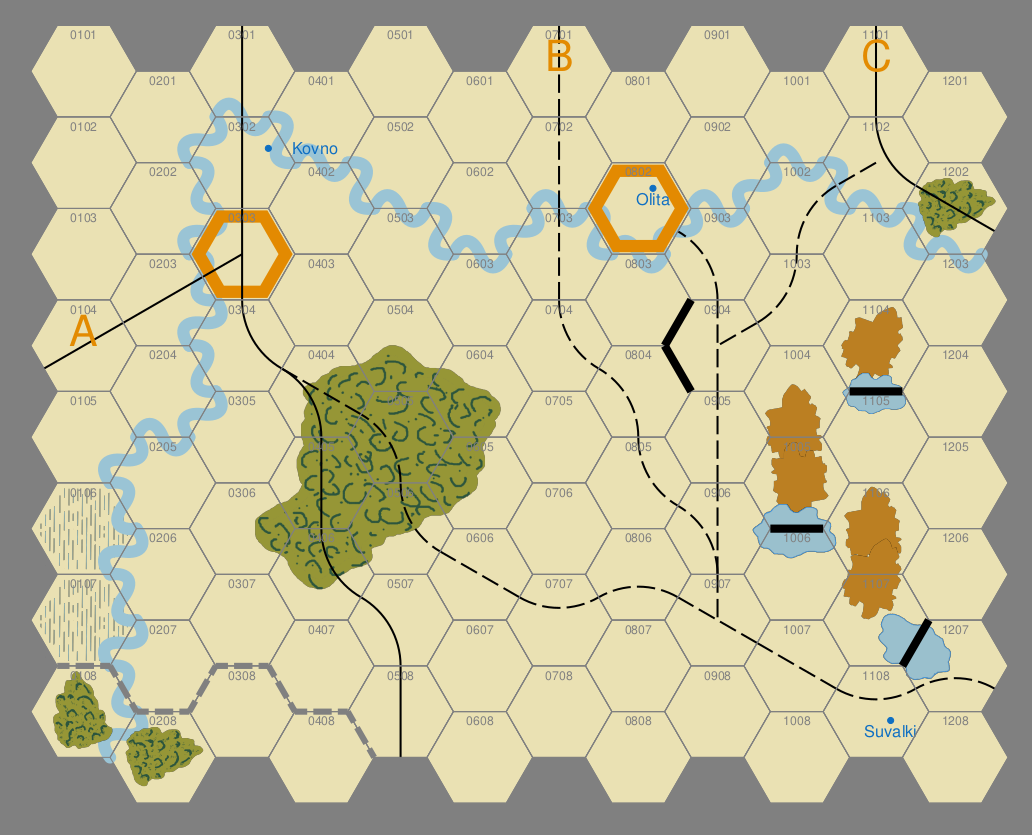
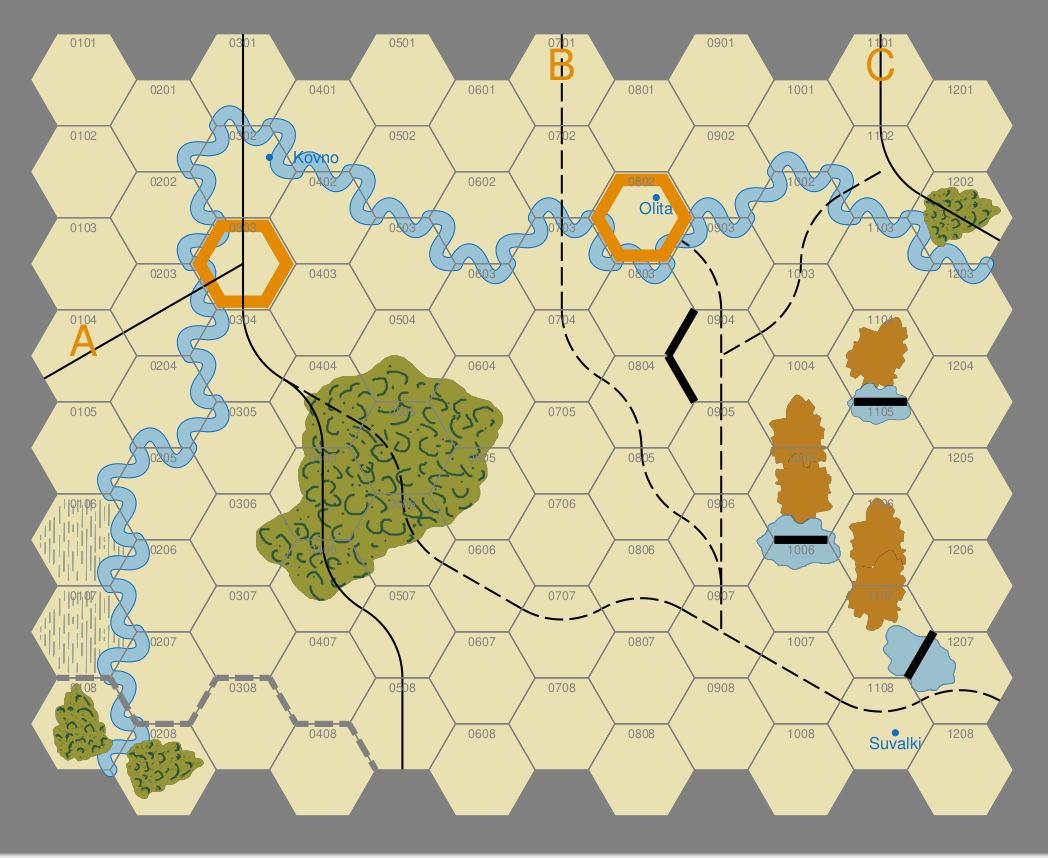
Update Tannenburg example

diff --git a/examples/boards/commercial/tannenburg_spi.py b/examples/boards/commercial/tannenburg_spi.py
@@ -51,20 +51,31 @@ Image("images/broken.png", common=imsize,
       cx=hg.cxy("1107").x, cy=hg.cxy("1107").y-0.7, rotation=70)
 
 # Lakes
-Image("images/lake.png", common=imsize,
+Image("images/lake1.png", common=imsize,
       cx=hg.cxy("1005").x, cy=hg.cxy("1005").y+0.8)
-Image("images/lake.png", height=1.20, width=1.3,
+Image("images/lake1.png", height=1.20, width=1.3,
       cx=hg.cxy("1104").x, cy=hg.cxy("1104").y+0.8)
-Image("images/lake.png", common=imsize,
+Image("images/lake1.png", common=imsize,
       cx=hg.cxy("1107").x+0.6, cy=hg.cxy("1107").y+0.5, rotation=150)
 
 # River
-GridLine(
+channel="ne,nw,"*3+"ne,e,"+"ne,nw,"*3+"ne,"+"e,se,"*3+\
+    "e,ne,e,se,e,ne,e,ne,e,se,e,se,e"
+GridLine(  # outer
     hg,
     start="0108",
     point="se",
-    edges="ne,nw,"*3+"ne,e,"+"ne,nw,"*3+"ne,"+"e,se,"*3+\
-          "e,ne,e,se,e,ne,e,ne,"+"e,se,"*2+"e",
+    edges=channel,
+    stroke=TOWN,
+    stroke_width=7,
+    stroke_ends="rounded",
+    wave_style="wave",
+    wave_height=0.2)
+GridLine(  # inner
+    hg,
+    start="0108",
+    point="se",
+    edges=channel,
     stroke=RIVER,
     stroke_width=6,
     stroke_ends="rounded",
@@ -77,6 +88,10 @@ Image("images/forest_large.png", height=4.5, width=4.5,
 Image("images/forest_small.png", common=imsize, cxy=hg.cxy("0108"), rotation=90)
 Image("images/forest_small.png", common=imsize, cxy=hg.cxy("0208"))
 Image("images/forest_small.png", common=imsize, cxy=hg.cxy("1202"))
+
+# NOT in the original - just examples ...
+# Image("images/town1.png", common=imsize, cxy=hg.cxy("0706"), rotation=10)
+# Image("images/town2.png", common=imsize, cxy=hg.cxy("0708"), rotation=15)
 
 # Russian Fortress
 forts = Common(height=1.3, stroke=FORT, stroke_width=6, fill=None)

diff --git a/docs/source/examples/commercial.rst b/docs/source/examples/commercial.rst
@@ -85,10 +85,14 @@ Discussion  This example shows how to construct a board for a wargame |dash| in
             Of interest are:
 
             * the use of :ref:`GridLines <gridline-command>` to create the
-              black railway lines, the blue river and the grey border
+              dashed black railway lines, the blue river, and the dotted grey
+              border; in the case of the river, two lines are drawn using the
+              same set of directions but with a light blue line superimposed
+              on a dark blue line
             * the use of the :ref:`Image <image-command>` command to load
               PNG terrain feature images that have been created using a
-              regular paint program
+              regular paint program (these images are also available in the
+              examples folder)
 
             These two commands between them, along with the usual
             :ref:`Text <text-command>` command, will likely support most
@@ -102,7 +106,8 @@ Discussion  This example shows how to construct a board for a wargame |dash| in
                to generate "pseudo-irregular" shapes, it is recommended to
                use a tool that makes it straightforward to create these
                images "by hand" |dash| assuming that such images do not
-               already exist.
+               already exist. Using a PNG with a transparent background is
+               usually the best approach.
 
 ----------- ------------------------------------------------------------------
 Screenshot  .. image:: images/boards/commercial/tannenburg_spi.png
@@ -265,6 +270,7 @@ Screenshot  .. image:: images/boards/commercial/traveller_black.png
                :width: 70%
 =========== ==================================================================
 
+.. _commercialGameWarpWar:
 
 Warp War
 ========
@@ -322,6 +328,7 @@ Screenshot  .. image:: images/boards/commercial/warpwar.png
                :width: 95%
 =========== ==================================================================
 
+.. _commercialGameUnderwaterCities:
 
 Underwater Cities
 =================